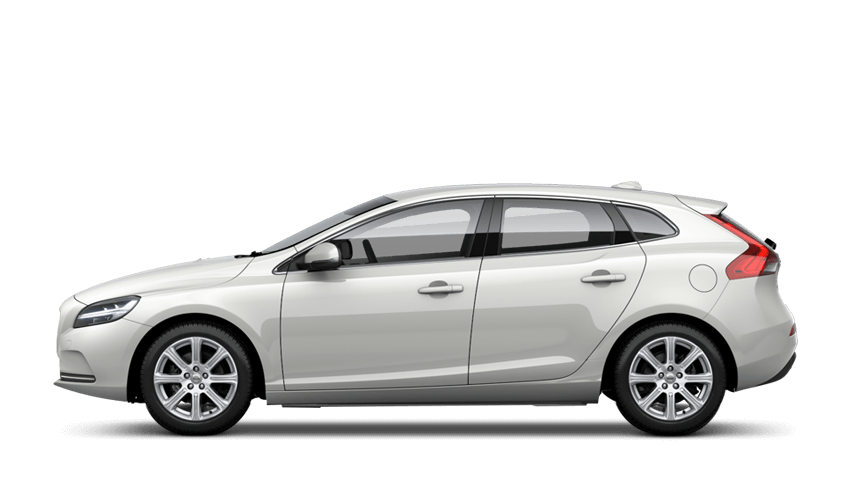
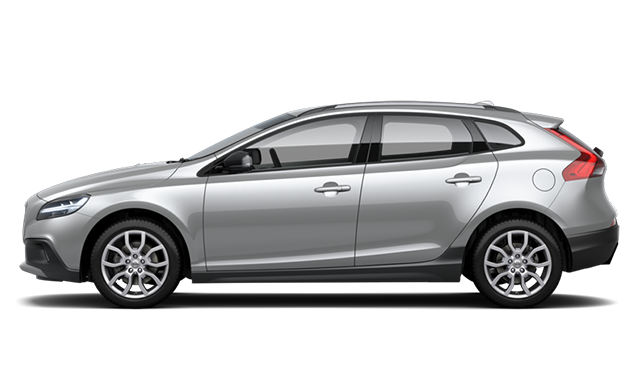
Finish css for 320px

diff --git a/index.html b/index.html
@@ -25,29 +25,34 @@
     <div class="cars" id="cars">
         <div class="cars__vehicle cars__vehicle--active">
             <p class="cars__title">Volvo <span class="cars__title--model">XC90</span></p>
-            <p class="cars__desc">Lorem ipsum dolor sit amet consectetur adipisicing elit. Consectetur modi ipsa, quo explicabo reiciendis numquam suscipit debitis molestiae. Iste quam cupiditate aut modi suscipit hic!</p>
-            <img src="https://img.sm360.ca/ir/w640h390c/images/newcar/ca/2019/volvo/xc-90/momentum/suv/exteriorColors/12934_cc0640_001_707.png" alt="Volvo XC90" class="cars__img">
+            <p class="cars__desc">Electrified powertrains, smart connectivity services and a uniquely Scandinavian sense of craftsmanship and ingenuity – this is the new XC90. The luxury car with purpose. Take the steering and catch your dreams.</p>
+            <img src="images/xc90.png" alt="Volvo XC90" class="cars__img">
             <p class="cars__desc--right">
                 <button class="cars__button">Learn more!</button>
             </p>
         </div>
         <div class="cars__vehicle">
             <p class="cars__title">Volvo <span class="cars__title--model">V40</span></p>
-            <p class="cars__desc">Lorem ipsum dolor sit amet consectetur adipisicing elit. Consectetur modi ipsa, quo explicabo reiciendis numquam suscipit debitis molestiae. Iste quam cupiditate aut modi suscipit hic!</p>
-            <img src="https://img.sm360.ca/ir/w640h390c/images/newcar/ca/2019/volvo/xc-90/momentum/suv/exteriorColors/12934_cc0640_001_707.png" alt="Volvo V40" class="cars__img">
+            <p class="cars__desc">Amongst the many safety attributes of the Volvo V40 is a world-first pedestrian airbag system. This is in addition to other ground-breaking systems. Take the steering and catch your dreams. Drive it - love it.</p>
+            <img src="images/v40.png" alt="Volvo V40" class="cars__img">
             <p class="cars__desc--right"><button class="cars__button">Learn more!</button></p>
         </div>
         <div class="cars__vehicle">
             <p class="cars__title">Volvo <span class="cars__title--model">XC90</span></p>
-            <p class="cars__desc">Lorem ipsum dolor sit amet consectetur adipisicing elit. Consectetur modi ipsa, quo explicabo reiciendis numquam suscipit debitis molestiae. Iste quam cupiditate aut modi suscipit hic!</p>
-            <img src="https://img.sm360.ca/ir/w640h390c/images/newcar/ca/2019/volvo/xc-90/momentum/suv/exteriorColors/12934_cc0640_001_707.png" alt="Volvo S90" class="cars__img">
+            <p class="cars__desc">A true challenger in the compact car premium segment, the C30 displays clear elements of classic Volvo models with a sporty emphasis. Two-door model offers a sporty and harmonious driving experience for those with an active lifestyle.</p>
+            <img src="images/c30.png" alt="Volvo C30" class="cars__img">
             <p class="cars__desc--right"><button class="cars__button">Learn more!</button></p>
         </div>
     </div>
     <div class="slider">
-        <img src="https://img.sm360.ca/ir/w640h390c/images/newcar/ca/2019/volvo/xc-90/momentum/suv/exteriorColors/12934_cc0640_001_707.png" alt="XC90" class="slider__item slider__item--active" id="1">
-        <img src="https://img.sm360.ca/ir/w640h390c/images/newcar/ca/2019/volvo/xc-90/momentum/suv/exteriorColors/12934_cc0640_001_707.png" alt="V40" class="slider__item" id="2">
-        <img src="https://img.sm360.ca/ir/w640h390c/images/newcar/ca/2019/volvo/xc-90/momentum/suv/exteriorColors/12934_cc0640_001_707.png" alt="S90" class="slider__item" id="3">
+        <div>
+        <img src="images/xc90.png" alt="XC90" class="slider__item slider__item--active" id="1">
+    </div>
+    <div> 
+    <img src="images/v40.png" alt="V40" class="slider__item" id="2">
+</div>   <div>
+        <img src="images/c30.png" alt="C30" class="slider__item" id="3">
+    </div>
     </div>
    <div class="offer" id="offer">
        <h1 class="offer__title">Our offer includes:</h1>
@@ -81,7 +86,7 @@
 </div>        
 <div class="test" id="test">
         <p class="test__title">Sign up for a test drive!</p>
-        <form action="#" method="post" class="test__form">
+        <form class="test__form">
             <input type="text" required name="name" placeholder="Please type in your full name" class="test__input">
             <input type="email" required name="email" placeholder="Please type in your email" class="test__input">
             <input type="text" required name="phone" placeholder="Please type in your phone number" class="test__input">
@@ -89,6 +94,24 @@
         </form>
 </div>
 <footer class="footer">
+    <div class="footer__socials">
+            <p class="footer__title">Find us on:</p>
+            <div class="footer__item">
+                    <i class="fa fa-instagram footer__item"></i>
+                    <p class="footer__desc">@volvocars</p>
+            </div>
+            <div class="footer__item">
+                    <i class="fa fa-twitter footer__item"></i>
+                    <p class="footer__desc">@officialVolvoCars</p>
+            </div>
+            <div class="footer__item">
+                    <i class="fa fa-facebook-official footer__item"></i>
+                    <p class="footer__desc">@VolvoCarsSE</p>
+            </div>
+   
+            
+            <p class="footer__copyrights">Bartłomiej Fornalczyk</p>     
+    </div>
     
 </footer>
  

diff --git a/css/style.css b/css/style.css
@@ -39,8 +39,8 @@ filter: progid:DXImageTransform.Microsoft.gradient( startColorstr='#3352f0', end
 
 }
 .nav__img{
-    /* width:100%; */
-    height: 100%;
+    width:11vw;
+    
 }
 .nav__button{
     font-size: 2rem;
@@ -79,7 +79,7 @@ filter: progid:DXImageTransform.Microsoft.gradient( startColorstr='#3352f0', end
     align-items:flex-start;
     position: relative;
     transition: 0.7s;
-    /* justify-content: space-around; */
+    align-items:center;
     flex-wrap: nowrap;
     flex-grow: 1;
     flex-shrink: 0;
@@ -92,7 +92,7 @@ filter: progid:DXImageTransform.Microsoft.gradient( startColorstr='#3352f0', end
     background: -ms-linear-gradient(-45deg, rgba(51,82,240,1) 0%, rgba(24,38,109,1) 56%, rgba(24,38,109,1) 85%, rgba(24,38,109,1) 100%);
     background: linear-gradient(135deg, rgba(51,82,240,1) 0%, rgba(24,38,109,1) 56%, rgba(24,38,109,1) 85%, rgba(24,38,109,1) 100%);
     filter: progid:DXImageTransform.Microsoft.gradient( startColorstr='#3352f0', endColorstr='#18266d', GradientType=1 );filter: progid:DXImageTransform.Microsoft.gradient( startColorstr='#3352f0', endColorstr='#18266d', GradientType=1 ); */
-/* height: 60vh; */
+    height: 83vh;
 overflow: hidden;
 
 }
@@ -101,6 +101,7 @@ overflow: hidden;
 }
 .cars__vehicle{
     padding: 20px;
+    padding-bottom:0;
     width: 100vw;
     /* position: absolute; */
 }
@@ -134,7 +135,7 @@ overflow: hidden;
 }
 .slider{
     width: 100%;
-    margin-top:5vh;
+    margin-top:2vh;
     height: 15vh;
     display: flex;
     flex-grow: 1;
@@ -143,7 +144,7 @@ overflow: hidden;
 }
 .slider__item{
     
-      height: 70%;
+    width: 100%;
       filter: opacity(0.5);
       cursor: pointer;
       outline: none;
@@ -151,14 +152,14 @@ overflow: hidden;
 .slider__item--active{
     filter: opacity(1);
 }
-.offer, .about, .test,.contact{
+.offer, .about, .test,.contact,.footer{
     /* height: 90vh; */
   
     padding: 14vh 25px 0;
     /* overflow: hidden; */
 }
 
-.offer__title, .about__title,.test__title{
+.offer__title, .about__title,.test__title,.footer__title{
     color: white;
     /* text-transform: uppercase; */
     font-weight: 700;
@@ -199,6 +200,7 @@ overflow: hidden;
 }
 .about{
     /* padding-top:10vh; */
+    /* height: 90vh; */
     display: flex;
     flex-direction: column;
     justify-content: space-between;
@@ -234,4 +236,32 @@ overflow: hidden;
     padding:5px 14px;
     border:3px solid white;
     color: white; */
+}
+.footer{
+    padding-left:0;
+    padding-right:0;
+
+}
+.footer__socials{
+    background-color: #fff;
+padding:5vh 25px 3vh;
+}
+.footer__title{
+    color: rgba(24,38,109,1);
+    padding-bottom:10px;
+}
+.footer__item{
+   
+    color: rgba(24,38,109,1);
+    font-size: 2.5rem;
+    display: flex;
+    align-items: center;
+    padding-right: 5%;
+    padding-left: 5%;
+}
+.footer__copyrights{
+    font-size: 0.6rem;
+    text-align: center;
+    color:rgba(24,38,109,1);
+    padding-top:20px;
 }

diff --git a/js/main.js b/js/main.js
@@ -20,6 +20,7 @@ function showNav() {
         collapseNav();
     }
 }
+// window.onresize = function(){ location.reload(); }
 hdr = document.querySelector(".nav");
 let x = window.getComputedStyle(hdr).height;
 document.addEventListener("scroll", function(){
@@ -57,12 +58,13 @@ sliders.forEach(e => {
 });
 
 let cars = document.querySelector(".cars");
-let carsWidth = cars.offsetWidth;
-let move = carsWidth/howManySlides;
+
 let jitter =20;
 let last = 0;
 async function changeSlide(e)
 {
+    let carsWidth = cars.offsetWidth;
+let move = carsWidth/howManySlides;
     id = e.srcElement.id - 1;
     translate = id*move;
     // actual = cars.style.transform;
